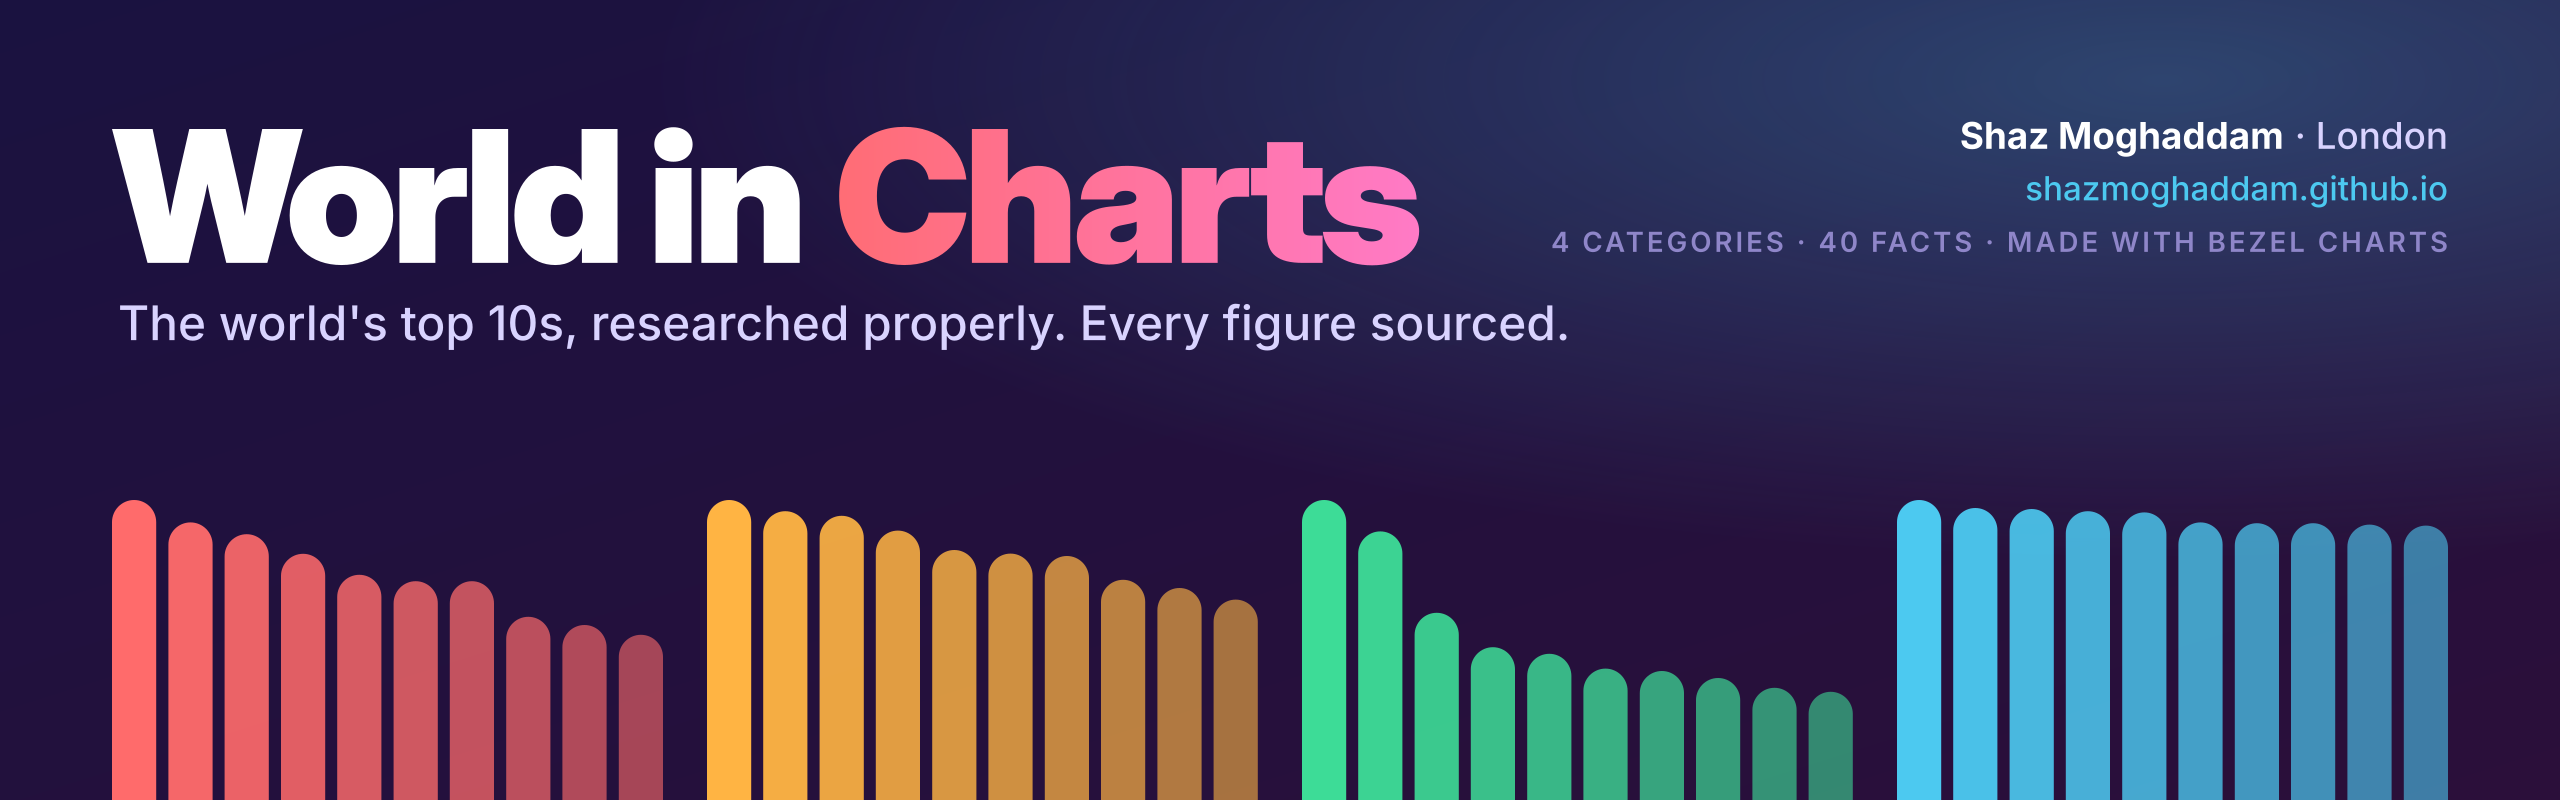
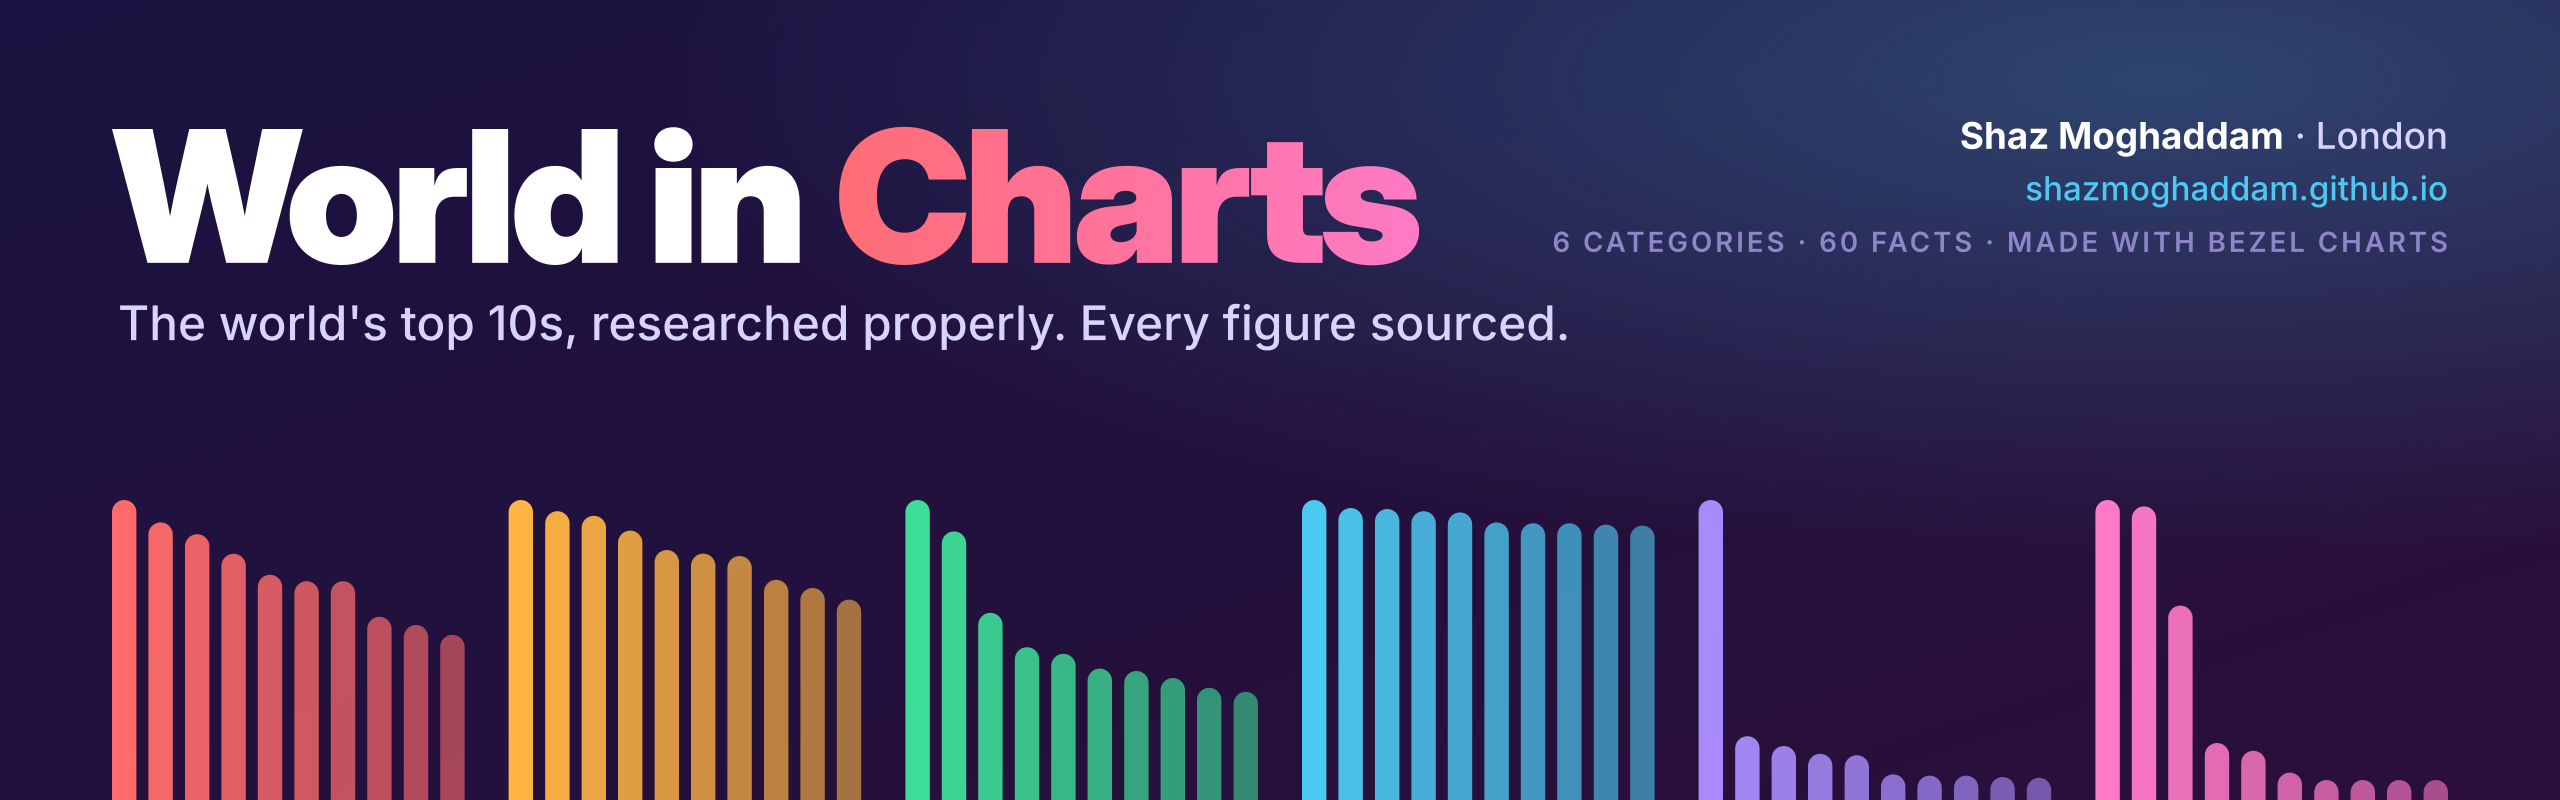
Add largest lakes by area and largest deserts
- Largest lakes by area: a donut of the top 10's combined surface, all ten
  figures from Britannica; the Caspian Sea is almost half
- Largest deserts: ranked bars coloured by type (polar, hot, cold winter);
  the Great Australian Desert marked disputed as a group of deserts
- Banner and social preview redrawn with both categories
- README sections and a CHANGELOG entry

Changed region(s): [[0.0312, 0.625, 0.9688, 1.0], [0.5938, 0.2812, 0.7188, 0.3125]]

diff --git a/README.md b/README.md
@@ -1,4 +1,4 @@
-<a href="https://shazmoghaddam.github.io/"><img src="assets/banner.png" alt="World in Charts: the world's top 10s, researched properly. Every figure sourced. By Shaz Moghaddam, London. The bars along the bottom are the real figures from the four categories." width="100%"></a>
+<a href="https://shazmoghaddam.github.io/"><img src="assets/banner.png" alt="World in Charts: the world's top 10s, researched properly. Every figure sourced. By Shaz Moghaddam, London. The bars along the bottom are the real figures from each category." width="100%"></a>
 
 # World in Charts
 
@@ -28,8 +28,10 @@ Where a source gives a range, the lower end is used for ranking, so nothing is o
 - [Longest rivers](#longest-rivers)
 - [Deepest lakes](#deepest-lakes)
 - [Highest mountains](#highest-mountains)
+- [Largest lakes by area](#largest-lakes-by-area)
+- [Largest deserts](#largest-deserts)
 
-More categories are on the way: largest lakes, deserts, waterfalls, volcanoes, ocean trenches, caves, islands, craters, glaciers, reefs, record temperatures, animals, and human-made records such as buildings, bridges and cities.
+More categories are on the way: waterfalls, volcanoes, ocean trenches, caves, islands, craters, glaciers, reefs, record temperatures, animals, and human-made records such as buildings, bridges and cities.
 
 ## Oldest living individual trees
 
@@ -150,6 +152,66 @@ More categories are on the way: largest lakes, deserts, waterfalls, volcanoes, o
 - **Small disagreements:** surveys differ by a few metres for some peaks, such as Cho Oyu (8,188 or 8,201 m) and Makalu (8,485 or 8,481 m). None of them change the order.
 
 **Sources:** [Al Jazeera: Nepal and China announce Everest's new height (2020)](https://www.aljazeera.com/news/2020/12/8/mt-everest-nepal-china-announce-revised-height-at-8848-metres) · [Wikipedia: List of highest mountains](https://en.wikipedia.org/wiki/List_of_highest_mountains_on_Earth) (checked against the March 2026 version)
+
+## Largest lakes by area
+
+![Largest lakes by area as a donut of the top 10's combined 809,200 km²: Caspian Sea 48%, Superior 10%, Victoria 9%, Huron 7%, Michigan 7%, and the other five together 19%](charts/largest-lakes.svg)
+
+**Measured as:** surface area in km². All ten figures come from one source, Britannica, so they are measured the same way.
+
+**Why this chart:** a donut shows how the top 10's combined surface splits. The Caspian Sea alone is almost half of it. The five smallest lakes in the top 10 are grouped as "Other"; the table has each one.
+
+| # | Lake | Where | Area (km²) | How sure |
+| --- | --- | --- | --- | --- |
+| 1 | Caspian Sea | Kazakhstan, Turkmenistan, Iran, Azerbaijan, Russia | 386,400 | Measured |
+| 2 | Superior | Canada, USA | 82,100 | Measured |
+| 3 | Victoria | Uganda, Kenya, Tanzania | 69,484 | Measured |
+| 4 | Huron | Canada, USA | 59,570 | Measured |
+| 5 | Michigan | USA | 57,757 | Measured |
+| 6 | Tanganyika | Tanzania, DR Congo, Burundi, Zambia | 32,900 | Measured |
+| 7 | Baikal | Russia | 31,500 | Measured |
+| 8 | Great Bear | Northwest Territories, Canada | 31,328 | Measured |
+| 9 | Malawi (Nyasa) | Malawi, Mozambique, Tanzania | 29,604 | Measured |
+| 10 | Great Slave | Northwest Territories, Canada | 28,568 | Measured |
+
+**Notes**
+
+- **Caspian Sea:** called a sea, but classed as a lake because it's landlocked. Its water level is falling, so its area is shrinking; other sources give 371,000 km².
+- **Victoria:** some sources give as little as 59,947 km², depending on where its swampy margins are counted.
+- **Michigan and Huron:** joined at the Straits of Mackinac. Counted as one lake, Michigan–Huron would be the largest freshwater lake, at about 117,000 km².
+- **Baikal:** only seventh by area, but the largest freshwater lake by volume because it's so deep.
+
+**Source:** [Britannica: World's largest lakes](https://www.britannica.com/topic/worlds-largest-lakes-2228655)
+
+## Largest deserts
+
+![Largest deserts in km², coloured by type: Antarctic 14.2 million and Arctic 13.9 million (polar); Sahara 9.2 million, Great Australian 2.7 million and Arabian 2.3 million (hot); Gobi 1.3 million (cold winter); Kalahari 900,000 (hot); Patagonian 673,000 (cold winter); Syrian 500,000 (hot); Great Basin 492,000 (cold winter)](charts/largest-deserts.svg)
+
+**Measured as:** area in km². A desert is any region that gets very little rain or snow, usually under 250 mm a year, so the ice of Antarctica and the Arctic counts.
+
+**Why this chart:** ranked bars, with colour and pattern showing the type of desert. The two biggest deserts on Earth are ice, and the Sahara is "only" third.
+
+| # | Desert | Type | Where | Area (km²) | How sure |
+| --- | --- | --- | --- | --- | --- |
+| 1 | Antarctic | Polar | Antarctica | 14,200,000 | Measured |
+| 2 | Arctic | Polar | Canada, Greenland, Russia, Norway, USA and others | 13,900,000 | Estimated |
+| 3 | Sahara | Hot | North Africa | 9,200,000 | Estimated |
+| 4 | Great Australian | Hot | Australia | 2,700,000 | Disputed |
+| 5 | Arabian | Hot | Arabian Peninsula | 2,330,000 | Estimated |
+| 6 | Gobi | Cold winter | China, Mongolia | 1,295,000 | Estimated |
+| 7 | Kalahari | Hot | Botswana, Namibia, South Africa | 900,000 | Estimated |
+| 8 | Patagonian | Cold winter | Argentina, Chile | 673,000 | Estimated |
+| 9 | Syrian | Hot | Syria, Jordan, Iraq, Saudi Arabia | 500,000 | Estimated |
+| 10 | Great Basin | Cold winter | USA | 492,098 | Estimated |
+
+**Notes**
+
+- **Why most are estimates:** desert edges are blurry, so apart from Antarctica, which is a whole continent, sources draw them differently and their areas differ, sometimes by a lot.
+- **Great Australian:** not one desert but a group of ten, including the Great Victoria, Great Sandy and Gibson. Wikipedia counts them together; most top 10 lists count them separately, and then none of them make the top 10.
+- **Kalahari:** gets enough rain in places to be called a semi-desert.
+- **Just missing out:** the Chihuahuan Desert in Mexico and the USA, at 453,248 km².
+
+**Source:** [Wikipedia: List of deserts by area](https://en.wikipedia.org/wiki/List_of_deserts_by_area)
 
 ## How it works
 

diff --git a/CHANGELOG.md b/CHANGELOG.md
@@ -2,6 +2,12 @@
 
 ## Unreleased
 
+Largest lakes by area and largest deserts.
+
+- Largest lakes by area: a donut of the top 10's combined surface, showing the Caspian Sea is almost half of it. All ten figures from Britannica.
+- Largest deserts: ranked bars coloured by desert type, showing the two biggest deserts are polar ice. The Great Australian Desert is marked disputed, since it's a group of deserts counted as one.
+- The banner and social preview now include both categories.
+
 Banner and social preview.
 
 - A colourful README banner and a GitHub social preview, drawn from the real data: each colour is one category and each bar is one figure.
